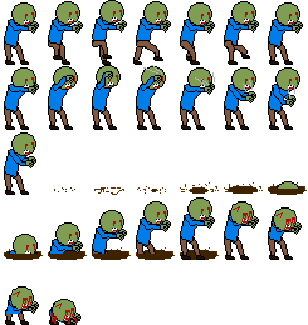
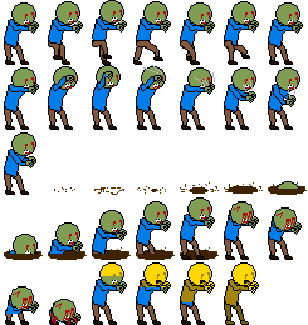
Add files via upload

diff --git a/ArenaScene.js b/ArenaScene.js
@@ -17,9 +17,18 @@ class UpgradeScene extends Phaser.Scene {
         
         var back = this.add.image(window.innerWidth-75,10,'backButton').setOrigin(0,0).setInteractive();
         back.on('pointerup', () => {
+            gameState.save();
             scene.scene.stop("UpgradeScene");
             scene.scene.start(`${gameState.currentScene}`);
 		});
+        
+        var back2 = this.add.image(window.innerWidth-70,window.innerHeight-70,'backButton2').setOrigin(0,0).setInteractive();
+        back2.flipX = true;
+        back2.on('pointerup', () => {
+            scene.scene.stop("UpgradeScene");
+            scene.scene.start(`ShopScene`);
+		});
+        
         //add gold icon and amound
         this.add.image(20,20,"coin").setOrigin(0,0).setDepth(-100).setScale(2);
         var coinsText = this.add.text(125, 40, `${gameState.coins}`, {
@@ -122,6 +131,98 @@ class UpgradeScene extends Phaser.Scene {
         
     }
 }
+
+
+
+
+
+
+
+
+
+
+
+
+
+
+class ShopScene extends Phaser.Scene {
+    constructor() {
+		super({ key: 'ShopScene' })
+	}
+    preload(){
+        
+    }
+    create(){
+        //create and animate background
+        var bg = this.physics.add.sprite(0,0,'background').setOrigin(0,0).setScale(window.innerHeight/675).setDepth(-100);
+        bg.anims.play('bganimate','true');
+        
+        
+        //Reference scene in local variable and create a back button
+        var scene = this;
+        
+        var back = this.add.image(window.innerWidth-75,10,'backButton').setOrigin(0,0).setInteractive();
+        back.on('pointerup', () => {
+            gameState.save();
+            scene.scene.stop("UpgradeScene");
+            scene.scene.start(`${gameState.currentScene}`);
+		});
+        
+        var back2 = this.add.image(20,window.innerHeight-70,'backButton2').setOrigin(0,0).setInteractive();
+        back2.on('pointerup', () => {
+            scene.scene.stop("ShopScene");
+            scene.scene.start(`UpgradeScene`);
+		});
+        //add gold icon and amound
+        this.add.image(20,20,"coin").setOrigin(0,0).setDepth(-100).setScale(2);
+        var coinsText = this.add.text(125, 40, `${gameState.coins}`, {
+            fill: '#ADD8E6', 
+            fontSize: `30px`,
+            fontFamily: 'Qahiri',
+            strokeThickness: 4,
+        }).setDepth(window.innerHeight+3);
+        this.time.addEvent({
+            delay: 10,
+            callback: ()=>{
+                coinsText.setText(gameState.coins);
+            },  
+            startAt: 0,
+            timeScale: 1,
+            repeat: -1
+        });
+        
+        //merchant and interact
+        var merch = this.add.sprite(window.innerWidth/2,100,'merchant').setInteractive().setScale(2.5);
+        merch.anims.play('move');
+        merch.on('pointerup', () => {
+            alert("Merchant: Weapon Skins for Sale!");
+		});
+        
+        
+        //skins
+        var goldenGunIcon = this.add.image(window.innerWidth/2,250,'goldenGunShop').setInteractive();
+        goldenGunIcon.on('pointerup', () => {
+            if(gameState.weaponSkins.goldenGun.owned == 1){
+                gameState.skin = gameState.weaponSkins.goldenGun.name;
+                gameState.bulletSkin = gameState.weaponSkins.goldenGun.nameB;
+                alert("Equipped"); 
+            }
+            else if(gameState.coins< 10000){
+                alert("Merchant: Can't buy that lad!");
+            }else {
+                alert("Merchant: The Golden Gun is yours!");
+                gameState.coins -= 10000;
+                gameState.weaponSkins.goldenGun.owned = 1;
+                gameState.skin = gameState.weaponSkins.goldenGun.name;
+                gameState.bulletSkin = gameState.weaponSkins.goldenGun.nameB;
+            }
+		});
+    }
+    update(){
+        
+    }
+}
+
 
 
 

diff --git a/menu.js b/menu.js
@@ -7,6 +7,8 @@ class MenuScene extends Phaser.Scene {
         //people
         this.load.spritesheet('character','images/character.png',{frameWidth: 50,frameHeight:50});
         this.load.spritesheet('characterSkeletonGun','images/characterSkeletonGun.png',{frameWidth: 50,frameHeight:50});
+        this.load.spritesheet('characterGoldenGun','images/characterGoldenGun.png',{frameWidth: 50,frameHeight:50});
+        
         this.load.spritesheet('merchant','images/merchantSprite.png',{frameWidth: 100,frameHeight:90});
         //zombies
         this.load.spritesheet('zombie','images/zombie.png',{frameWidth: 44,frameHeight:65});
@@ -23,6 +25,7 @@ class MenuScene extends Phaser.Scene {
         //bullets
         this.load.image('bullet1','images/bullet1.png');
         this.load.image('bulletSG','images/bulletSG.png');
+        this.load.image('bulletGolden','images/bulletGolden.png');
         
         this.load.spritesheet('coin','images/coin.png',{frameWidth: 30,frameHeight:32});
         this.load.image('gunMagazine','images/gunMagazine.png');
@@ -40,6 +43,7 @@ class MenuScene extends Phaser.Scene {
         this.load.image('titleImage','images/titleImage.png');
         this.load.image('upgradeButton','images/upgradeButton.png');
         this.load.image('backButton','images/backButton.png');
+        this.load.image('backButton2','images/backButton2.png');
         this.load.image('settingsButton','images/settingsButton.png');
         //pause menu
         this.load.image('pauseMainMenuButton','images/pauseMainMenuButton.png');
@@ -49,14 +53,15 @@ class MenuScene extends Phaser.Scene {
         //death menu
         this.load.image('deathMenu','images/deathMenu.png');
         
-         this.load.image('grenadeObj','images/grenadeObj.png');
+        this.load.image('grenadeObj','images/grenadeObj.png');
+        
+        //Shop icons
+        this.load.image('goldenGunShop','images/goldenGunShop.png');
         
         //audio
         this.load.audio('menuBgMusic', 'audio/menuBgMusic.mp3');
     }
     create() {
-        gameState.skin = 'characterSkeletonGun'
-        gameState.bulletSkin = 'bulletSG';
         gameState.currentScene = "MenuScene";
         //audio
         gameState.loopSound = {
@@ -99,6 +104,26 @@ class MenuScene extends Phaser.Scene {
             repeat: -1,
             frames:this.anims.generateFrameNames('characterSkeletonGun',{start: 0,end: 11})
         });
+        this.anims.create({
+            key: 'characterGoldenGunIdle',
+            frameRate: 1,
+            repeat: -1,
+            frames:this.anims.generateFrameNames('characterGoldenGun',{start: 0,end: 0})
+        });
+        this.anims.create({
+            key: 'characterGoldenGunWalk',
+            frameRate: 25,
+            repeat: -1,
+            frames:this.anims.generateFrameNames('characterGoldenGun',{start: 0,end: 11})
+        });
+        
+        
+        
+        
+        
+        
+        
+        
         //merchant animation
         this.anims.create({
             key: 'move',
@@ -129,6 +154,11 @@ class MenuScene extends Phaser.Scene {
             key: 'zombieDeath',
             frameRate: 12,
             frames:this.anims.generateFrameNames('zombie',{start: 26,end: 29})
+        });
+        this.anims.create({
+            key: 'zombieGoldDeath',
+            frameRate: 12,
+            frames:this.anims.generateFrameNames('zombie',{start: 30,end: 33})
         });
         
         //sarmszombie
@@ -315,7 +345,6 @@ class MenuScene extends Phaser.Scene {
         gameState.loadSave();
         gameState.updateStats();
 	
-        
         
         
         var button = this.add.image(window.innerWidth/2,window.innerHeight/2,'startButton').setInteractive();

diff --git a/game.js b/game.js
@@ -14,7 +14,7 @@ const config = {
             //debug: true
         }
     },
-    scene:[MenuScene,PauseScene,ArenaScene,UpgradeScene,DeathScene],
+    scene:[MenuScene,PauseScene,ArenaScene,UpgradeScene,DeathScene,ShopScene],
     scale: {
         zoom: 1,
         mode: Phaser.Scale.FIT,
@@ -26,7 +26,7 @@ const game = new Phaser.Game(config);
 
 
 let gameState = {
-    coins: 50,
+    coins: 10000,
     characterStats: {
         speed : 150,
         health: 100,
@@ -45,6 +45,19 @@ let gameState = {
     kills: 0,
     bossSummonKills: 30,
     disableReload: false,
+    
+    skin: 'character',
+    bulletSkin: 'bullet1',
+    
+    weaponSkins: {
+        goldenGun : {
+            owned: 0,
+            name: 'characterGoldenGun',
+            nameB: 'bulletGolden'
+        }
+    },
+    
+    
     updateStats: function(){
         //resets players stats
         gameState.speed = gameState.characterStats.speed;
@@ -69,6 +82,7 @@ let gameState = {
         localStorage.setItem(3, gameState.characterStats.damage);
         localStorage.setItem(4, gameState.characterStats.ammo);
         localStorage.setItem(5, gameState.characterStats.speed);
+        localStorage.setItem(6, gameState.weaponSkins.goldenGun.owned);
     },
     //loads variable values from localstorage
     loadSave: function(){
@@ -86,6 +100,9 @@ let gameState = {
         }
         if(localStorage.getItem(5)){//If variable exists in localStorage
             gameState.characterStats.speed = parseInt(localStorage.getItem(5));
+        }
+        if(localStorage.getItem(6)){//If variable exists in localStorage
+            gameState.weaponSkins.goldenGun.owned = parseInt(localStorage.getItem(6));
         }
     },
     
@@ -403,9 +420,9 @@ let gameState = {
         name: 'sarmsZombie'
     },
     quadZombie :{
-        health : 2750,
+        health : 2500,
         damage : 75,
-        damageRange : 190,
+        damageRange : 180,
         name: 'quadZombie'
     },
     cloneZombie :{
@@ -463,7 +480,11 @@ let gameState = {
                         attack.destroy();
                         zom.setVelocityX(0);
                         zom.setVelocityY(0);
-                        zom.anims.play('zombieDeath','true');
+                        if(gameState.skin == "characterGoldenGun"){
+                            zom.anims.play('zombieGoldDeath','true');
+                        }else {
+                            zom.anims.play('zombieDeath','true');
+                        }
                         scene.time.addEvent({
                             delay: 400,
                             callback: ()=>{
@@ -686,7 +707,7 @@ let gameState = {
                                     zom.y = -160;
                                     scene.physics.moveToObject(zom,targeter,0,200);
                                     gameState.six = scene.time.addEvent({
-                                        delay: 100,
+                                        delay: 200,
                                         callback: ()=>{
                                             zom.setVelocityX(0);
                                             zom.setVelocityY(0);
